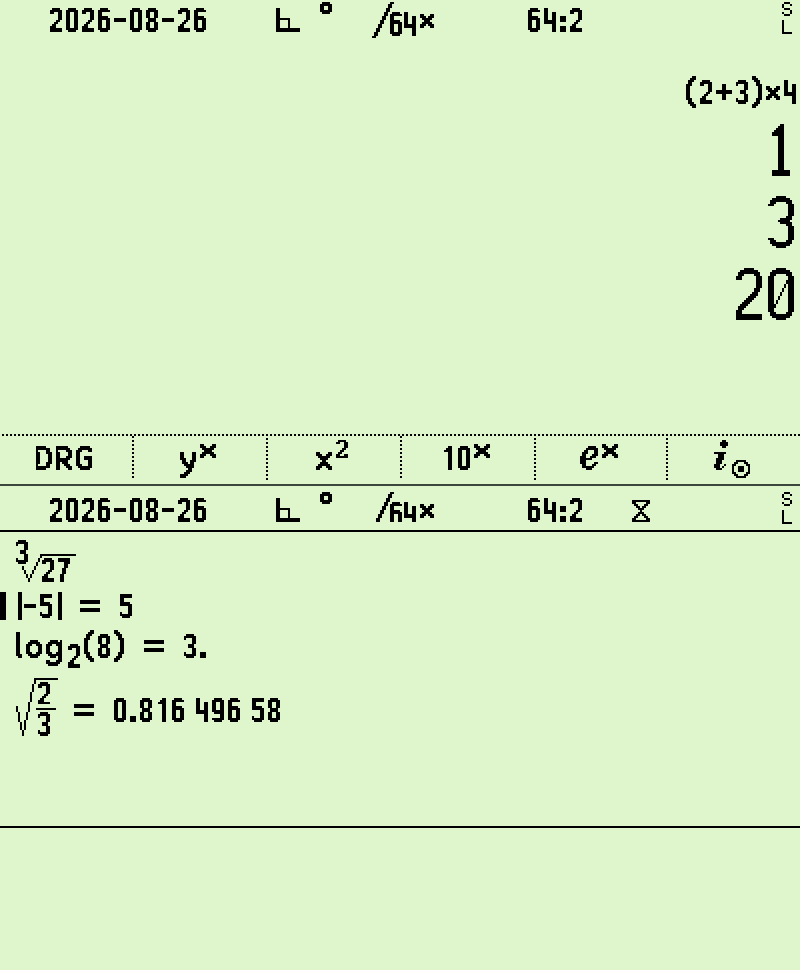
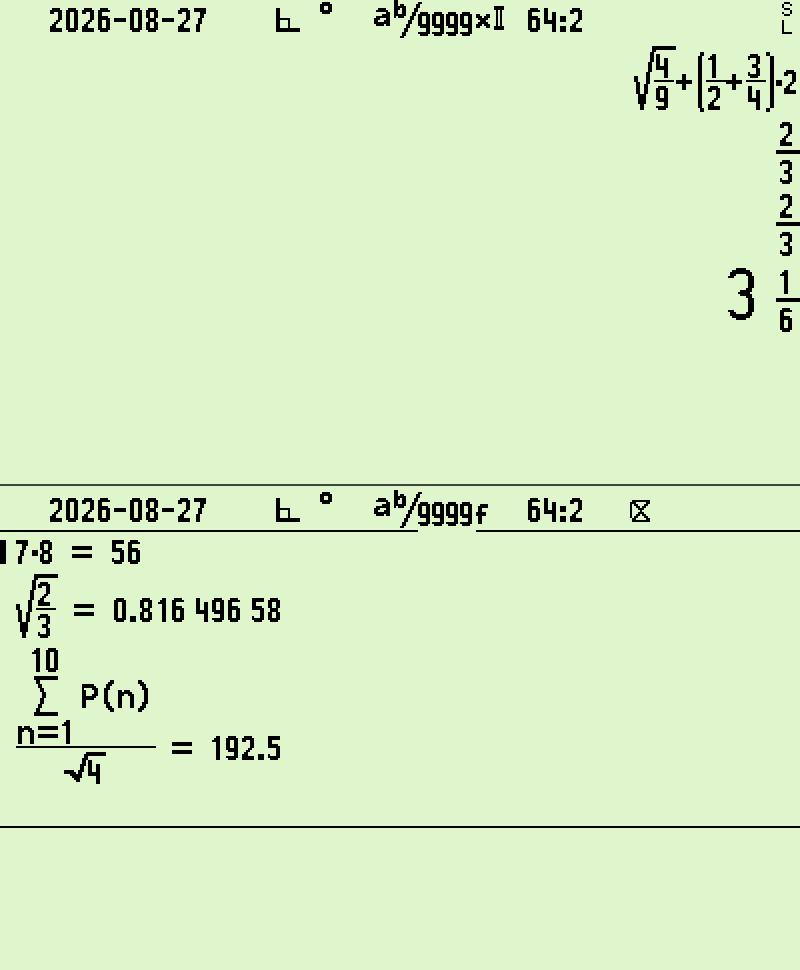
forum: attachment 1 retaken — the T line at its measured depth limit
Stan pushed back on "the T line has to be simple" and was right. My claim
came from a 36-row figure lifted out of a TEST constant, and I assumed one
level of stacking from it without measuring.

Measured properly, by rendering candidates and checking whether the line
drew the formula or fell back to T's value: the live formula line takes
TWO levels. A radical over a fraction fits. An exponent on a fraction
fits. root(4/9) + (1/2 + 3/4) x 2 fits. A triple-nested fraction, a
fraction over a fraction, and a radical over a radical all fall back.

The top half now runs at that ceiling: a radical wrapping a stacked
fraction, two more stacked fractions, synthesized tall parentheses and
the raised dot, with the answer 3 1/6 underneath. Operands were chosen so
the intermediates stay pretty — root(4/9) is exactly 2/3, so Y and Z read
as fractions. An earlier take used root(2/3) and buried the screen in
20-digit decimals.

The bottom half is a new browser capture carrying the symbols Stan asked
for: a captured SIGMA over n = 1 to 10 of a program, divided by a
radical, beside root(2/3) over a stacked fraction and a plain chain for
contrast. A Sigma genuinely cannot go on the T line — verified, it is
taller than two levels and falls back — which is why it lives here.
PSHOW was no help either, since it draws the X value rather than the
formula.

Every frame was driven through the real key paths, so the shadow stack
stayed truthful and nothing was set behind the capture engine's back to
[…]

diff --git a/forum/screenshots/README.md b/forum/screenshots/README.md
@@ -140,16 +140,35 @@ collated. Both are built from captures in the archive, and neither crops
 or retouches a frame — a full 400x240 screen is always shown whole.
 
 1. `pp-attach-1-stack-and-browser.png` — two screens stacked with a rule
-   between them, built from `pp8-tline.png` above and `pp6-browser.png`
-   below. The top screen is the ordinary stack after `2 ENTER 3 + 4 x`
-   with the formula line on: `(2+3)x4` on the T line, 20 in X. The T
-   line's default is OFF; FV11 pins that default and FV13 pins that
-   turning it on makes the T band differ from the plain value render.
-   The bottom screen is the formula browser, selection marker on the
-   `|-5| = 5` row, showing a cube root with its index, absolute-value
-   bars, `log2(8)`, and a square root wrapping a stacked fraction with
-   its result. The browser is driven through `prettyBrowser(NOPARAM)` in
-   the suite (prettyTest.c:1309 and :1619); T29 pins a wide row panning.
+   between them, both retaken 2026-08-27, neither cropped.
+
+   The top screen is the stack with the formula line on, and it sits at
+   that line's measured ceiling. The T line carries
+   `root(4/9) + (1/2 + 3/4) x 2`: a radical wrapping a stacked fraction,
+   two more stacked fractions, synthesized tall parentheses and the
+   raised dot. TWO levels of stacking is the limit — measured by
+   rendering candidates and checking whether the line drew the formula or
+   fell back to T's value, a triple-nested fraction, a fraction over a
+   fraction, and a radical over a radical all fall back. The operands are
+   chosen so the intermediates stay pretty: root(4/9) is exactly 2/3, so
+   Y and Z read as fractions and the answer is 3 1/6. An earlier take
+   used root(2/3) and buried the stack in 20-digit decimals.
+
+   The bottom screen is the browser with three different shapes: a plain
+   chain `7 x 8 = 56` (selected), `root(2/3)` wrapping a stacked
+   fraction, and a captured SIGMA over n = 1 to 10 of a program P,
+   divided by `root(4)`. A Sigma does NOT fit the T line — it is taller
+   than two levels, so it falls back there, which is why it is shown on
+   this surface. PSHOW is no use for it either: that draws the X VALUE,
+   not the formula.
+
+   Every frame here was driven through the real key paths, so the shadow
+   stack stayed truthful; no register was set behind the capture engine's
+   back to make a nicer picture. The T-line default is OFF (FV11 pins the
+   default, FV13 pins that turning it on changes the band). The browser
+   is driven through `prettyBrowser(NOPARAM)` in the suite; T29 pins a
+   wide row panning.
+
 2. `pp-attach-2-nesting.png` — the capacity case: an integral from 0 to
    1 of a second derivative wrapping a Sigma over a root-fraction divided
    by a product, times a Pi with a nested power fraction, evaluated at

diff --git a/forum/drafts/pretty-print-v0.1-FACTS.md b/forum/drafts/pretty-print-v0.1-FACTS.md
@@ -169,8 +169,16 @@ Captures are now tracked in `forum/screenshots/`, with the full 21-shot
 working set under `pretty-print-archive/` (they previously lived only in
 `/tmp`). The forum allows three; this post uses two.
 
-1. `pp-attach-1-stack-and-browser.png` — the everyday view and the
-   browser, stacked with a rule between them. Neither frame is cropped.
+1. `pp-attach-1-stack-and-browser.png` — the stack with the formula line
+   at its measured ceiling, above the browser showing a captured Sigma.
+   Neither frame is cropped.
+
+   **T-line depth, measured 2026-08-27:** the live formula line takes TWO
+   levels of stacking. A radical over a fraction fits, an exponent on a
+   fraction fits, `root(4/9) + (1/2 + 3/4) x 2` fits. A triple-nested
+   fraction, a fraction over a fraction, and a radical over a radical all
+   exceed it and fall back to T's plain value. A captured Sigma is taller
+   still and also falls back, so Sigma formulas belong on the browser.
 2. `pp-attach-2-nesting.png` — the capacity case, drawn by EQSHW, retaken
    2026-08-27 in typeable lowercase form. Evaluates to
    1.228593777031159439372254772764558 (EQ33).
